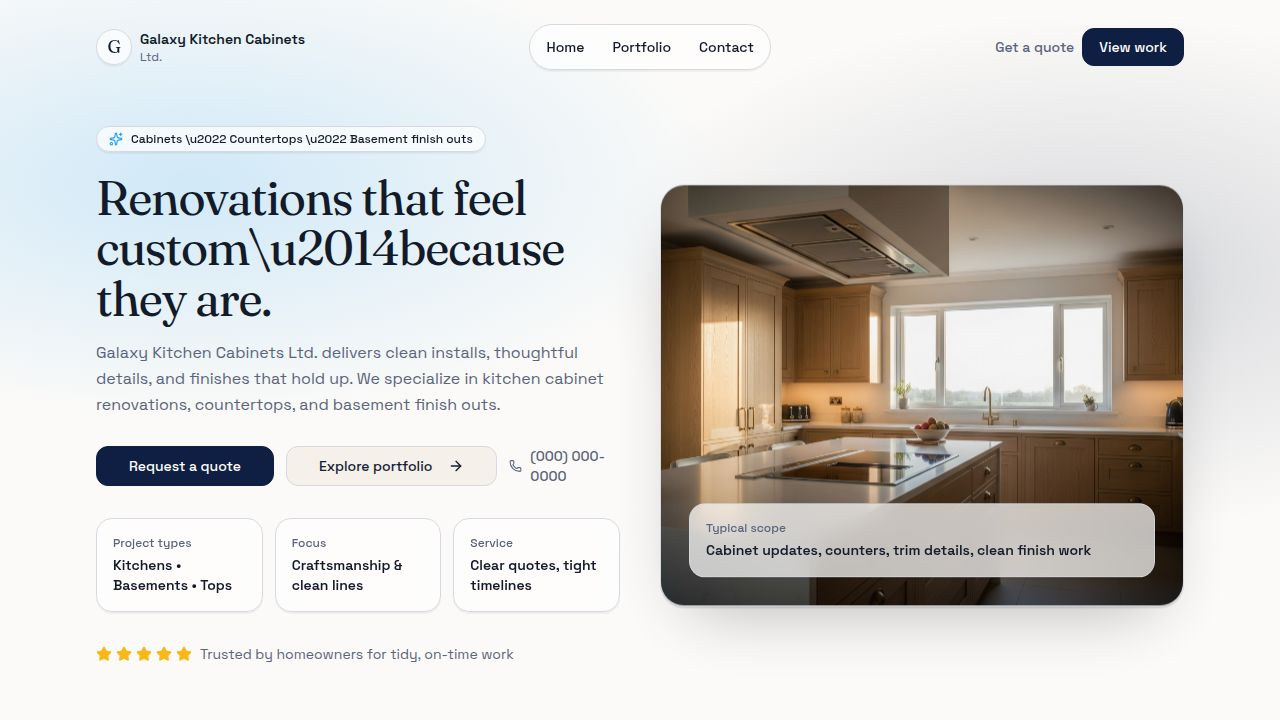
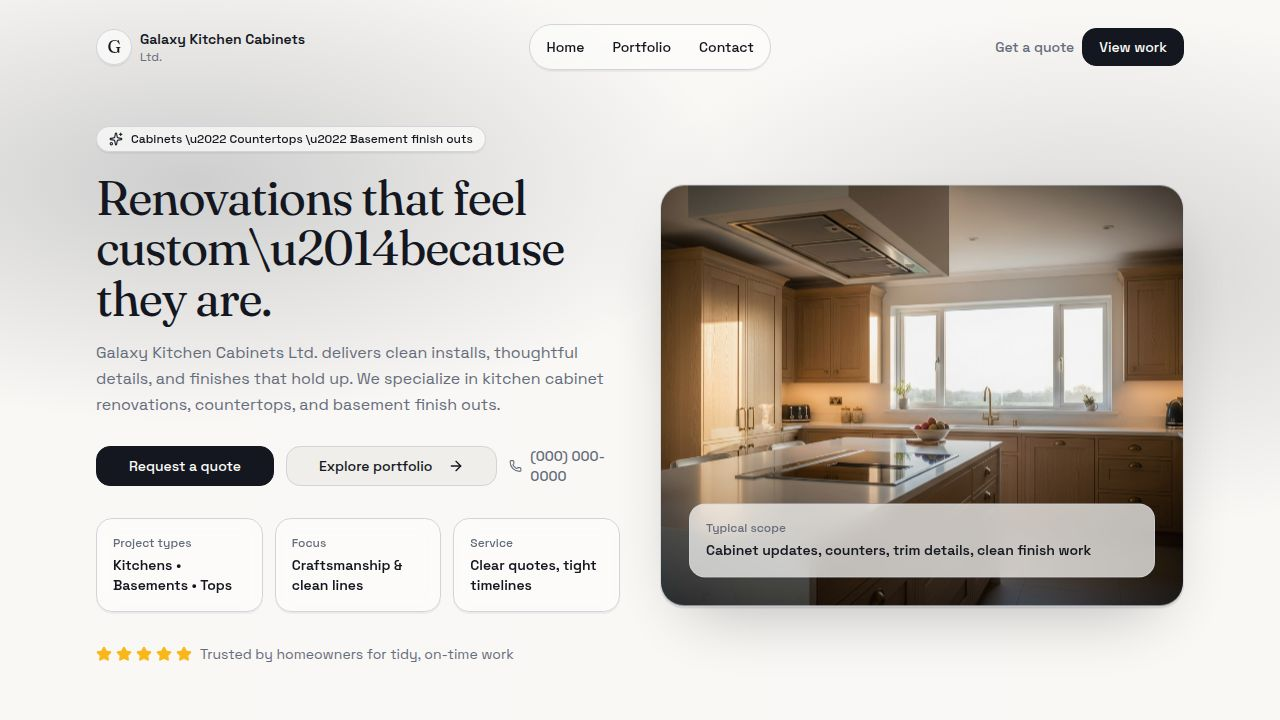
Update visual design to adopt an editorial minimal aesthetic
Adjust CSS variables in index.css to implement an "Editorial Minimal" art direction inspired by "The Harlowe Suite", modifying background, foreground, card, popover, border, input, ring, primary, secondary, muted, accent colors, and radius.

Replit-Commit-Author: Agent
Replit-Commit-Session-Id: 970fa08f-57a2-49e9-92b8-f1b699a7e65b
Replit-Commit-Checkpoint-Type: full_checkpoint
Replit-Commit-Event-Id: 75a1c20f-5662-4fa4-b504-34465caee638
Replit-Commit-Screenshot-Url: https://storage.googleapis.com/screenshot-production-us-central1/ffa262da-efd5-4e0a-93d0-a61c93f89918/970fa08f-57a2-49e9-92b8-f1b699a7e65b/Xv7phkM
Replit-Helium-Checkpoint-Created: true

Changed region(s): [[0.0, 0.0611, 0.375, 0.4278], [0.0625, 0.6111, 0.2188, 0.6722], [0.8438, 0.0306, 0.9375, 0.0917]]

diff --git a/client/src/index.css b/client/src/index.css
@@ -56,40 +56,40 @@
   --elevate-1: rgba(0, 0, 0, 0.03);
   --elevate-2: rgba(0, 0, 0, 0.07);
 
-  /* Art direction: "Warm Modern Craft" */
-  --background: 36 33% 98%;
-  --foreground: 222 38% 12%;
+  /* Art direction: "Editorial Minimal" (Harlowe-inspired) */
+  --background: 38 25% 97%;
+  --foreground: 222 22% 10%;
 
-  --card: 0 0% 100%;
-  --card-foreground: 222 38% 12%;
-  --card-border: 222 18% 88%;
+  --card: 40 20% 99%;
+  --card-foreground: 222 22% 10%;
+  --card-border: 222 14% 86%;
 
-  --popover: 0 0% 100%;
-  --popover-foreground: 222 38% 12%;
+  --popover: 40 20% 99%;
+  --popover-foreground: 222 22% 10%;
 
-  --border: 222 16% 86%;
-  --input: 222 18% 82%;
-  --ring: 210 92% 56%;
+  --border: 222 12% 84%;
+  --input: 222 14% 80%;
+  --ring: 214 22% 18%;
 
-  --primary: 222 64% 16%;
-  --primary-foreground: 0 0% 100%;
+  --primary: 222 22% 10%;
+  --primary-foreground: 40 20% 99%;
 
-  --secondary: 30 34% 94%;
-  --secondary-foreground: 222 44% 14%;
+  --secondary: 40 12% 93%;
+  --secondary-foreground: 222 22% 10%;
 
-  --muted: 36 20% 94%;
-  --muted-foreground: 222 16% 42%;
+  --muted: 40 10% 94%;
+  --muted-foreground: 222 10% 44%;
 
-  --accent: 204 92% 55%;
-  --accent-foreground: 0 0% 100%;
+  --accent: 222 18% 16%;
+  --accent-foreground: 40 20% 99%;
 
   --destructive: 0 74% 54%;
   --destructive-foreground: 0 0% 100%;
 
-  --radius: 14px;
+  --radius: 16px;
 
-  --primary-border: 222 64% 16%;
-  --accent-border: 204 92% 55%;
+  --primary-border: 222 22% 10%;
+  --accent-border: 222 18% 16%;
 }
 
 .dark {
